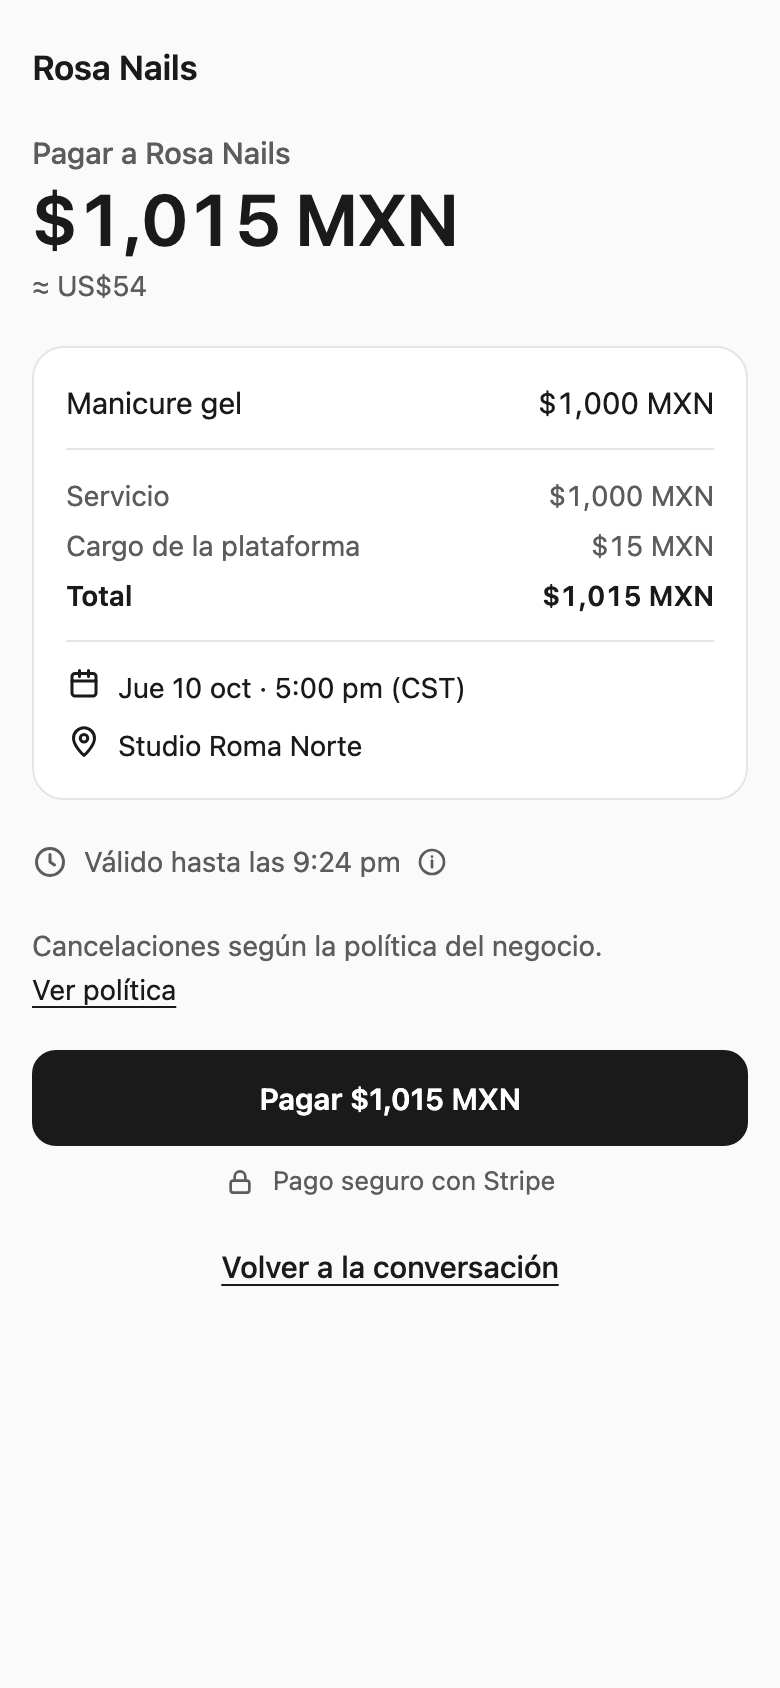
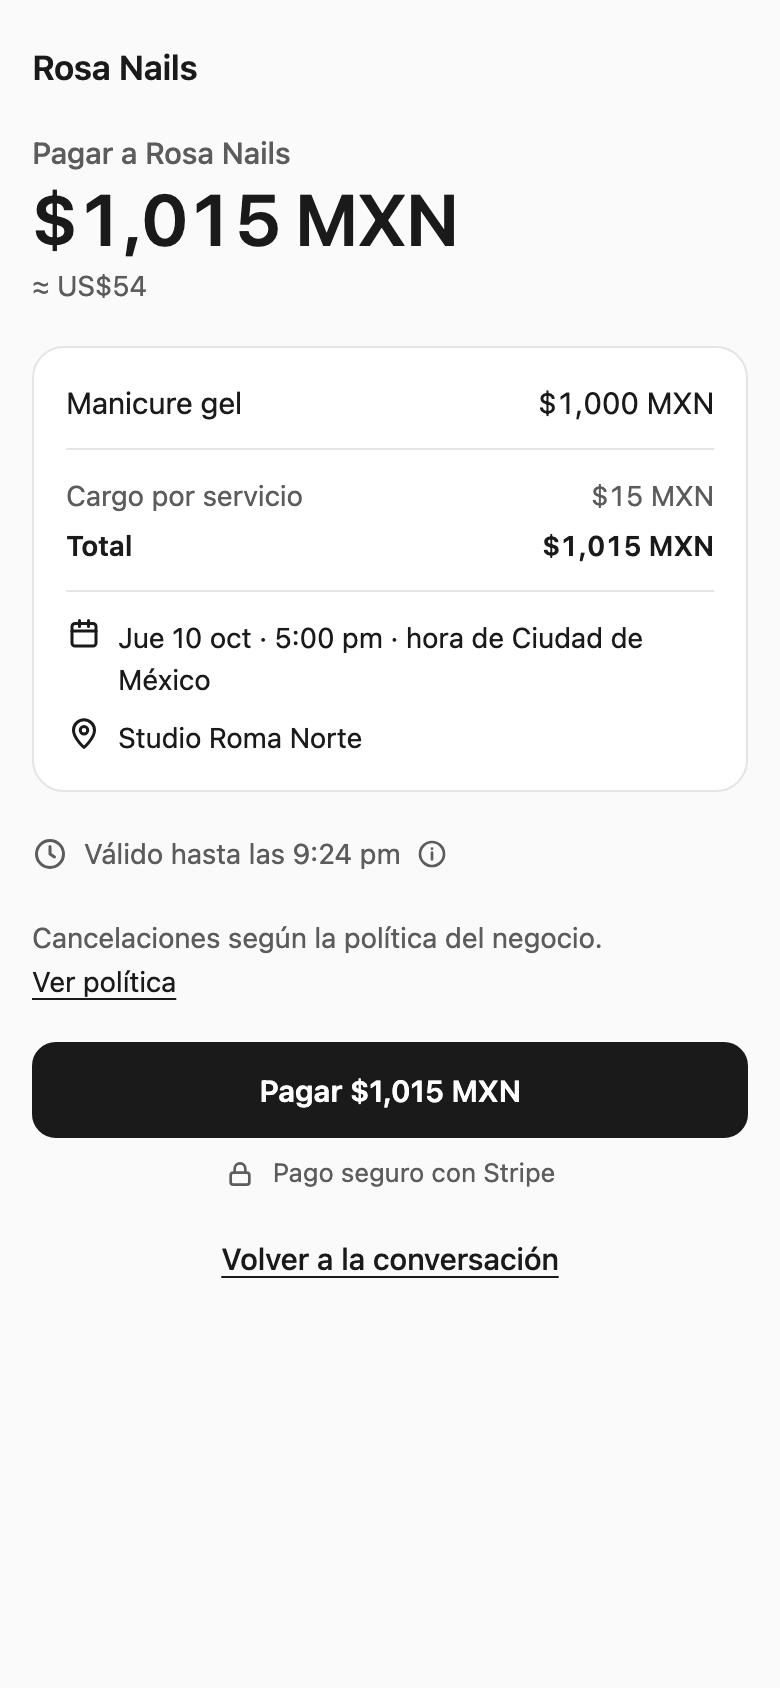
pay page: PM UX review (drop repeated Servicio row, one fee name, one-primary paid screen with a calendar menu, city instead of CST)

diff --git a/web/src/app/(public)/pay/[code]/CheckoutView.tsx b/web/src/app/(public)/pay/[code]/CheckoutView.tsx
@@ -12,6 +12,7 @@ import { payMoney } from "@/lib/payments/pay-page-format";
 import {
   Action,
   AmountBlock,
+  CalendarMenu,
   ExpiryRow,
   INK,
   MUTED,
@@ -72,8 +73,6 @@ export type CheckoutViewProps = {
   readonly logoUrl?: string | null;
   /** UI locale for money and copy ("es" | "en" | "fr"). */
   readonly locale?: string;
-  /** The link came from a conversation: the paid page sends the client back to it. */
-  readonly autoReturn?: boolean;
   /** Paid link opened again later (not the return from Stripe). */
   readonly alreadyPaid?: boolean;
   /** Dated booking: .ics download + Google Calendar (paid confirmation only). */
@@ -103,7 +102,6 @@ type T = (key: string) => string;
 export type PayRuntime = {
   readonly timedOut?: boolean;
   readonly onCheckAgain?: () => void;
-  readonly secondsLeft?: number | null;
 };
 
 export function CheckoutView(props: CheckoutViewProps) {
@@ -116,15 +114,11 @@ export function CheckoutView(props: CheckoutViewProps) {
     <PayStateView {...props} status={phase} t={t} runtime={runtime} onPayNavigate={() => setPhase("processing")} />
   );
   if (phase === "processing") return <ProcessingRuntime>{view}</ProcessingRuntime>;
-  if (phase === "paid" && props.autoReturn && props.threadHref) {
-    return <PaidRuntime threadHref={props.threadHref}>{view}</PaidRuntime>;
-  }
   return view({});
 }
 
 const POLL_MS = 2500;
 const POLL_MAX_MS = 45_000;
-const RETURN_AFTER_S = 8;
 
 /** Stripe sent the client back before the webhook settled: re-read until it has, then say so. */
 function ProcessingRuntime(props: { children: (rt: PayRuntime) => ReactNode }) {
@@ -144,20 +138,6 @@ function ProcessingRuntime(props: { children: (rt: PayRuntime) => ReactNode }) {
     return () => clearInterval(id);
   }, [router, timedOut]);
   return <>{props.children({ timedOut, onCheckAgain: () => setTimedOut(false) })}</>;
-}
-
-/** The paid page, then back to the conversation it came from. */
-function PaidRuntime(props: { threadHref: string; children: (rt: PayRuntime) => ReactNode }) {
-  const [left, setLeft] = useState(RETURN_AFTER_S);
-  useEffect(() => {
-    if (left <= 0) {
-      window.location.assign(props.threadHref);
-      return;
-    }
-    const id = setTimeout(() => setLeft((n) => n - 1), 1000);
-    return () => clearTimeout(id);
-  }, [left, props.threadHref]);
-  return <>{props.children({ secondsLeft: Math.max(left, 0) })}</>;
 }
 
 const FEE_LABEL_KEY: Partial<Record<FeeLine["code"], string>> = {
@@ -205,7 +185,10 @@ function summaryRows(props: CheckoutViewProps): SummaryRow[] {
 function feeRows(props: CheckoutViewProps & { t: T }, money: (cents: number) => string): SummaryRow[] {
   // The client's lines only: seller-side codes (talent_quote, workspace_margin...) never print here.
   const rows: SummaryRow[] = [];
+  const single = props.lines.length <= 1;
   for (const l of props.feeLines ?? []) {
+    // One item: the item row IS the subtotal, so "Servicio" would repeat it.
+    if (single && l.code === "service_subtotal") continue;
     const key = FEE_LABEL_KEY[l.code];
     if (key) rows.push({ key: l.code, label: props.t(key), value: money(l.cents), strong: l.code === "total_charged" });
   }
@@ -228,7 +211,8 @@ export function PayStateView(props: CheckoutViewProps & { t: T; runtime?: PayRun
   switch (props.status) {
     case "paid": {
       const alreadyPaid = props.alreadyPaid === true;
-      const secondsLeft = props.runtime?.secondsLeft ?? null;
+      const fees = feeRows(props, money);
+      const hasTotalRow = fees.some((f) => f.key === "total_charged");
       return frame(
         <>
           <StatusHeader
@@ -246,37 +230,33 @@ export function PayStateView(props: CheckoutViewProps & { t: T; runtime?: PayRun
           />
           <SummaryCard
             items={props.lines.map((l) => ({ label: `${l.units > 1 ? `${l.units} × ` : ""}${l.label}`, price: money(l.unitCents * l.units) }))}
-            fees={feeRows(props, money)}
+            fees={fees}
             rows={summaryRows(props)}
           />
-          <p className="m-0 text-[20px] font-semibold tabular-nums" style={{ color: INK }} data-pay-charged="">
-            {interpolate(t("public.payPage.charged"), { amount: charged })}
-          </p>
+          {hasTotalRow ? null : (
+            <p className="m-0 text-[20px] font-semibold tabular-nums" style={{ color: INK }} data-pay-charged="">
+              {interpolate(t("public.payPage.charged"), { amount: charged })}
+            </p>
+          )}
           {stack(
             <>
               <WayBack {...props} kind="primary" />
+              {props.calendar ? (
+                <CalendarMenu
+                  label={t("public.payPage.addToCalendar")}
+                  icsLabel={t("public.payPage.calendarIcs")}
+                  googleLabel={t("public.payPage.googleCalendar")}
+                  icsHref={props.calendar.icsHref}
+                  googleHref={props.calendar.googleHref}
+                />
+              ) : null}
               {props.receiptHref ? (
-                <Action kind="secondary" href={props.receiptHref}>
+                <Action kind="link" href={props.receiptHref}>
                   {t("public.payPage.viewReceipt")}
                 </Action>
               ) : null}
-              {props.calendar ? (
-                <>
-                  <Action kind="secondary" href={props.calendar.icsHref} download="booking.ics" data-pay-calendar="ics">
-                    {t("public.payPage.addToCalendar")}
-                  </Action>
-                  <Action kind="secondary" href={props.calendar.googleHref} external data-pay-calendar="google">
-                    {t("public.payPage.googleCalendar")}
-                  </Action>
-                </>
-              ) : null}
             </>,
           )}
-          {secondsLeft !== null ? (
-            <p className="m-0 text-[13px]" style={{ color: MUTED }}>
-              {interpolate(t("public.payPage.returning"), { n: String(secondsLeft) })}
-            </p>
-          ) : null}
         </>,
       );
     }

diff --git a/web/src/lib/payments/pay-return-views.test.tsx b/web/src/lib/payments/pay-return-views.test.tsx
@@ -21,7 +21,7 @@ const base: CheckoutViewProps = {
   threadHref: "/c/t/tok",
   receiptHref: "/r/abc",
   expiry: { time: "9:24 pm", day: null },
-  whenLabel: "Jue 10 oct · 5:00 pm (CST)",
+  whenLabel: "Jue 10 oct · 5:00 pm · hora de Cancún",
   whereLabel: "Studio Roma Norte",
   usdLine: "≈ US$54",
   feeLines: [
@@ -44,7 +44,7 @@ function primaries(html: string): number {
 const ALL_STATES: Partial<CheckoutViewProps>[] = [
   { status: "open" },
   { status: "processing" },
-  { status: "paid", autoReturn: true },
+  { status: "paid", calendar: { icsHref: "#i", googleHref: "#g" } },
   { status: "paid", alreadyPaid: true },
   { status: "cancelledReturn" },
   { status: "expired" },
@@ -78,7 +78,7 @@ test("A ready: business, one money format, charged total, approx US$ line, when,
   assert.match(html, /Pagar a Rosa Nails/);
   assert.match(html, /Pagar \$1,015 MXN/);
   assert.match(html, /≈ US\$54/);
-  assert.match(html, /Jue 10 oct · 5:00 pm \(CST\)/);
+  assert.match(html, /Jue 10 oct · 5:00 pm · hora de Cancún/);
   assert.match(html, /Studio Roma Norte/);
   assert.match(html, /Válido hasta las 9:24 pm/);
   assert.doesNotMatch(html, /\d{2}:\d{2}</, "no raw hh:mm");
@@ -137,23 +137,26 @@ test("D taking longer: reassures, never asks to pay again, offers check again an
   assert.equal(primaries(html), 1);
 });
 
-test("C paid: who, what, when, charged amount (not the price), receipt, way back, countdown, no stale 'nothing is charged'", () => {
-  const html = render({ status: "paid", autoReturn: true }, { secondsLeft: 8 });
+test("C paid: who, what, when, the charged total once, receipt as a link, one primary, no auto-redirect, no stale 'nothing is charged'", () => {
+  const html = render({ status: "paid" });
   assert.match(html, /data-pay-return="paid"/);
   assert.match(html, /Pago recibido/);
   assert.match(html, /Pagado a Rosa Nails/);
   assert.match(html, /Manicure gel/);
-  assert.match(html, /Jue 10 oct · 5:00 pm \(CST\)/);
-  assert.match(html, /Se cobró \$1,015 MXN/);
+  assert.match(html, /Jue 10 oct · 5:00 pm · hora de Cancún/);
+  assert.equal((html.match(/\$1,015 MXN/g) ?? []).length, 1, "the charged total appears once");
+  assert.doesNotMatch(html, /Se cobró/);
+  assert.doesNotMatch(html, /Servicio/, "one item: no repeated subtotal row");
   assert.match(html, /href="\/r\/abc"[^>]*>Ver recibo</);
+  assert.doesNotMatch(html, /border:1px solid var\(--token-color-line[^>]*href="\/r\/abc"/, "the receipt is a text link, not a button");
   assert.match(html, /href="\/c\/t\/tok"[^>]*>Volver a la conversación</);
-  assert.match(html, /Volviendo a tu conversación en 8 s/);
+  assert.doesNotMatch(html, /Volviendo|redirect/i);
   assert.doesNotMatch(html, /no se cobra nada|nothing is charged|Nada se cobra/i);
   assert.doesNotMatch(html, /data-pay-calendar/);
   assert.equal(primaries(html), 1, "the success mark is not an action; the way back is the one primary");
 });
 
-test("C paid: a dated booking offers .ics and Google Calendar; no thread falls back to the seller's site", () => {
+test("C paid: a dated booking offers ONE calendar menu with .ics and Google; no thread falls back to the seller's site", () => {
   const html = render({
     status: "paid",
     threadHref: null,
@@ -162,8 +165,10 @@ test("C paid: a dated booking offers .ics and Google Calendar; no thread falls b
   assert.match(html, /data-pay-calendar="ics"/);
   assert.match(html, /download="booking\.ics"/);
   assert.match(html, /data-pay-calendar="google"/);
+  assert.equal((html.match(/data-pay-calendar-menu/g) ?? []).length, 1);
   assert.match(html, /Agregar al calendario/);
-  assert.match(html, /Agregar a Google Calendar/);
+  assert.match(html, /Apple Calendar o archivo \.ics/);
+  assert.match(html, /Google Calendar/);
   assert.doesNotMatch(html, /Volver a la conversación/);
   assert.match(html, /Ir al sitio de Rosa Nails/);
   assert.doesNotMatch(html, /Volviendo/);

diff --git a/web/src/lib/payments/pay-page-format.ts b/web/src/lib/payments/pay-page-format.ts
@@ -67,24 +67,41 @@ export function dayWords(iso: string, timeZone: string, locale: string): string 
   return out.charAt(0).toUpperCase() + out.slice(1);
 }
 
-/** "CST" / "GMT-5": the zone's short name at that instant; null for UTC or an unusable zone. */
-export function zoneAbbreviation(iso: string, timeZone: string, locale: string): string | null {
+const ZONE_CITY_ES: Record<string, string> = {
+  "America/Mexico_City": "Ciudad de México",
+  "America/Cancun": "Cancún",
+  "America/Merida": "Mérida",
+  "America/Mazatlan": "Mazatlán",
+  "America/Bogota": "Bogotá",
+  "America/Sao_Paulo": "São Paulo",
+};
+
+/** The city a zone is named for: "Ciudad de México", "Cancún", "Los Angeles"; null for UTC or an unusable zone. */
+export function zoneCity(timeZone: string, locale: string): string | null {
   if (!isValidIanaTimeZone(timeZone) || timeZone === "UTC") return null;
-  const at = new Date(iso);
-  if (Number.isNaN(at.getTime())) return null;
-  const name = new Intl.DateTimeFormat(intlLocale(locale), { timeZone, timeZoneName: "short" })
-    .formatToParts(at)
-    .find((p) => p.type === "timeZoneName")?.value;
-  return name ?? null;
+  if (intlLocale(locale) === "es-MX" && ZONE_CITY_ES[timeZone]) return ZONE_CITY_ES[timeZone];
+  const last = timeZone.split("/").pop() ?? "";
+  const city = last.replace(/_/g, " ").trim();
+  return city || null;
 }
 
-/** "Jue 10 oct · 5:00 pm (CST)": the appointment, with the zone it is read in. */
+/** "hora de Cancún" / "Cancún time" / "heure de Cancún": says which clock the time is on. */
+export function zoneNote(timeZone: string, locale: string): string | null {
+  const city = zoneCity(timeZone, locale);
+  if (!city) return null;
+  const lang = locale.toLowerCase();
+  if (lang.startsWith("es")) return `hora de ${city}`;
+  if (lang.startsWith("fr")) return `heure de ${city}`;
+  return `${city} time`;
+}
+
+/** "Jue 10 oct · 5:00 pm · hora de Cancún": the appointment, with the clock it is read on. */
 export function whenWords(iso: string, timeZone: string, locale: string): string | null {
   const day = dayWords(iso, timeZone, locale);
   const clock = clockWords(iso, timeZone, locale);
   if (!day || !clock) return null;
-  const abbr = zoneAbbreviation(iso, timeZone, locale);
-  return `${day} · ${clock}${abbr ? ` (${abbr})` : ""}`;
+  const note = zoneNote(timeZone, locale);
+  return `${day} · ${clock}${note ? ` · ${note}` : ""}`;
 }
 
 function ymdIn(at: Date, timeZone: string): string {

diff --git a/web/src/lib/payments/pay-page-format.test.ts b/web/src/lib/payments/pay-page-format.test.ts
@@ -1,7 +1,7 @@
 import assert from "node:assert/strict";
 import { test } from "node:test";
 
-import { clockWords, dayWords, expiryParts, payMoney, payUsdLine, whenWords, zoneAbbreviation } from "./pay-page-format";
+import { clockWords, dayWords, expiryParts, payMoney, payUsdLine, whenWords, zoneCity, zoneNote } from "./pay-page-format";
 
 // 2026-10-10 15:00 UTC = 10:00 am in Cancun (UTC-5, no DST).
 const AT = "2026-10-10T15:00:00Z";
@@ -31,10 +31,13 @@ test("day reads weekday day month in es, weekday month day in en", () => {
   assert.equal(dayWords(AT, "America/Cancun", "en"), "Sat Oct 10");
 });
 
-test("the appointment carries its zone; UTC and bad zones carry none", () => {
-  assert.match(whenWords(AT, "America/Cancun", "es") ?? "", /^Sáb 10 oct · 10:00 am \(.+\)$/);
-  assert.equal(zoneAbbreviation(AT, "UTC", "es"), null);
-  assert.equal(zoneAbbreviation(AT, "Not/AZone", "es"), null);
+test("the appointment names the city's clock, not an abbreviation; UTC and bad zones name none", () => {
+  assert.equal(whenWords(AT, "America/Cancun", "es"), "Sáb 10 oct · 10:00 am · hora de Cancún");
+  assert.equal(whenWords(AT, "America/Mexico_City", "es"), "Sáb 10 oct · 9:00 am · hora de Ciudad de México");
+  assert.equal(whenWords(AT, "America/Los_Angeles", "en"), "Sat Oct 10 · 8:00 am · Los Angeles time");
+  assert.equal(zoneNote("America/Cancun", "fr"), "heure de Cancun");
+  assert.equal(zoneCity("UTC", "es"), null);
+  assert.equal(zoneCity("Not/AZone", "es"), null);
   assert.equal(whenWords(AT, "UTC", "en"), "Sat Oct 10 · 3:00 pm");
 });
 

diff --git a/web/src/app/(public)/pay/[code]/PayParts.tsx b/web/src/app/(public)/pay/[code]/PayParts.tsx
@@ -282,6 +282,29 @@ export function PolicyLine(props: { line: string; link: string; title: string; b
   );
 }
 
+/** One "add to calendar" control: a native disclosure with the two ways in (works with no script). */
+export function CalendarMenu(props: { label: string; icsLabel: string; googleLabel: string; icsHref: string; googleHref: string }) {
+  return (
+    <details data-pay-calendar-menu="" className="w-full">
+      <summary
+        className="flex cursor-pointer list-none items-center justify-center gap-2"
+        style={{ ...ACTION_STYLE.secondary }}
+      >
+        <Icon name="calendar" size={18} />
+        {props.label}
+      </summary>
+      <div className="mt-2 flex flex-col gap-1">
+        <Action kind="link" href={props.icsHref} download="booking.ics" data-pay-calendar="ics">
+          {props.icsLabel}
+        </Action>
+        <Action kind="link" href={props.googleHref} external data-pay-calendar="google">
+          {props.googleLabel}
+        </Action>
+      </div>
+    </details>
+  );
+}
+
 /** The link's validity, in words, with a clock. */
 export function ExpiryRow(props: { text: string; hint?: string | null }) {
   return (

diff --git a/web/src/app/(public)/pay/[code]/pay-page.tsx b/web/src/app/(public)/pay/[code]/pay-page.tsx
@@ -185,7 +185,6 @@ export async function PayByCodePage({
   const threadToken = inquiryId && loaded.tenantId ? signThreadToken(inquiryId, loaded.tenantId) : null;
   const threadHref = threadToken ? publicThreadPath(threadToken) : null;
   const receiptHref = orderRow?.receipt_code ? `/r/${orderRow.receipt_code}` : null;
-  const cameFromConversation = Boolean(inquiryId);
   const orderLines = ((lines ?? []) as { label: string | null; units: number; unit_cents: number }[]).map((line) => ({
     label: line.label ?? "",
     units: Number(line.units) || 1,
@@ -274,7 +273,6 @@ export async function PayByCodePage({
         status={paidDisplay}
         whereLabel={whereLabel ?? requestedLocation}
         alreadyPaid={query.status !== "paid"}
-        autoReturn={cameFromConversation && query.status === "paid"}
         lines={orderLines}
         stripeUrl={null}
         threadHref={threadHref}

diff --git a/web/src/lib/payments/pay-theme.static.test.ts b/web/src/lib/payments/pay-theme.static.test.ts
@@ -29,8 +29,8 @@ test("pay confirmation uses site tokens, no admin-* colour classes", () => {
 });
 
 test("paid confirmation wires .ics + Google when the page passes calendar links", () => {
-  assert.match(view, /data-pay-calendar="ics"/);
-  assert.match(view, /data-pay-calendar="google"/);
+  assert.match(parts, /data-pay-calendar="ics"/);
+  assert.match(parts, /data-pay-calendar="google"/);
   assert.match(page, /icsDataHref/);
   assert.match(page, /googleCalendarUrl/);
   assert.match(page, /payCalendarEvent/);
